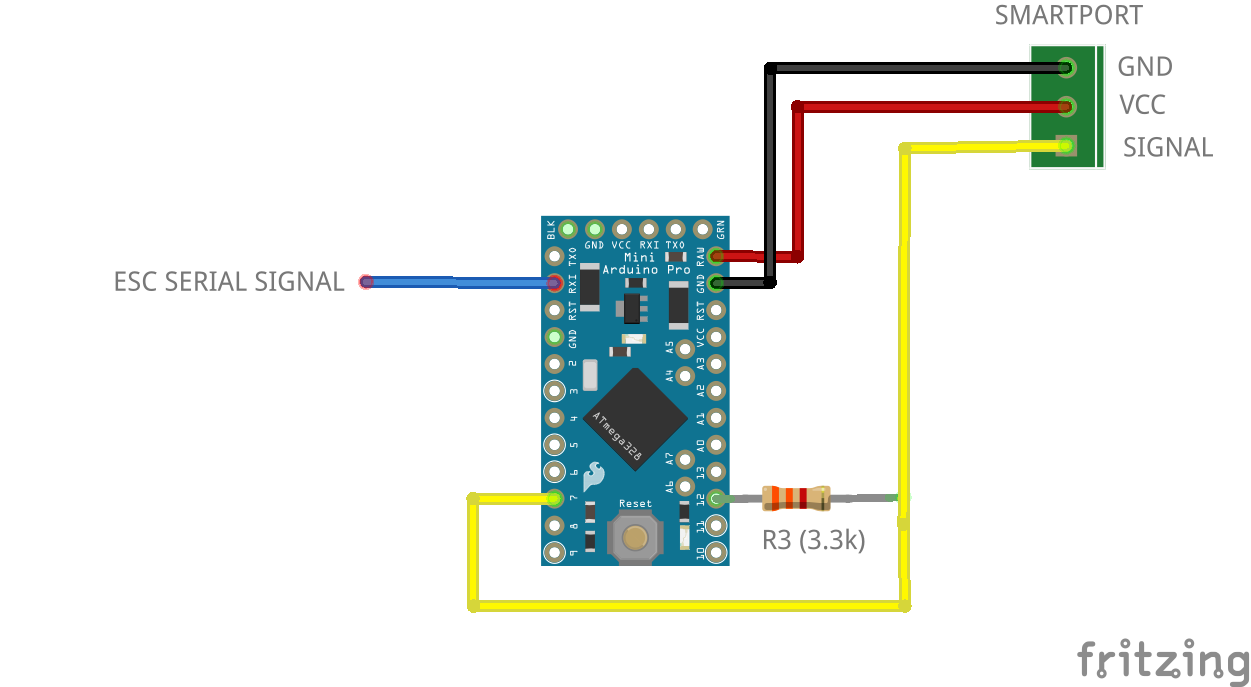
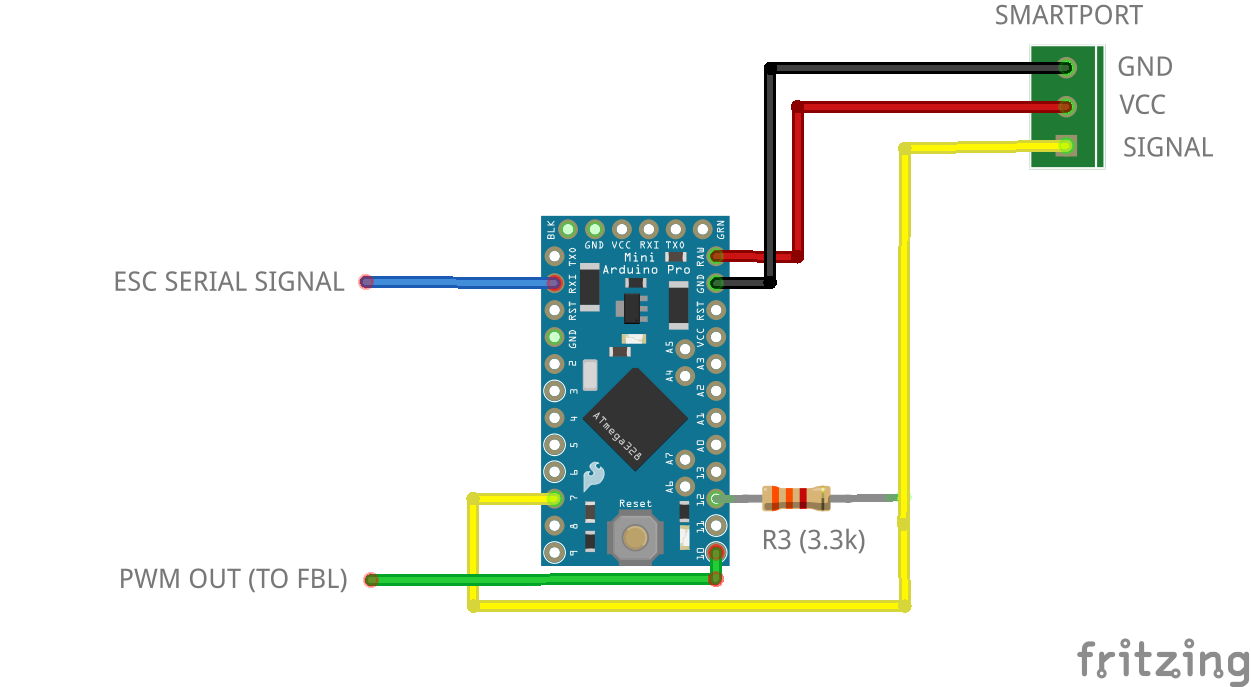
Update to 0.5

Changed region(s): [[0.0935, 0.7948, 0.5923, 0.8559]]

diff --git a/README.md b/README.md
@@ -1,25 +1,58 @@
 # MSRC - Multi Sensor for RC - FrSky Smartport
 
-This is a DIY project to send multiple sensor telemetry to Frsky Smartport using an Arduino Pro Mini 328P (3.3v or 5v)
+This is a DIY project to send multiple sensors telemetry to Frsky Smartport using an Arduino Pro Mini 328P (3.3v or 5v)
 
 ## Telemetry
 
+The following types of sensors can be connected:
+
+- ESC
+  - ESCs with serial telemetry (Hobbywing V3/V4/V5)
+  - ESC with PWM signal or phase sensor
+  - ESC Castle Link
+- I2C sensors
+- Analog sensors
+
 ### ESC
 
-The ESC telemetry can be ESC serial data, PWM signal or Castle Link
-
-ESC protocols implemented:
+Some ESC have a serial port for telemetry output. This can be decoded connecting the ESC to the UART available in the Pro Mini. The following ESC serial protocols are implemented:
 
 - Hobbywing Platinum V3: RPM
-- Hobbywing Platinum V4, Hobbywing Flyfun V5: RPM, temperature, voltage and current
-- PWM signal: RPM
-- Castle Link Live: RPM , voltage, ripple voltage, current, bec voltage, bec current, temperature, temperature NTC
+- Hobbywing Platinum V4, Hobbywing Flyfun V5: RPM, temperature (Mosfet and BEC), voltage and current
 
-Average cell voltage for HW V4/V5 is calculated for 3S,4S,5S,6S,7S,8S,10S and 12S batteries. 10 seconds after power on cell count is autodetected and fixed (average cell voltage to be >3.8v for proper cell count)
+Optionally a PWM signal (PIN 10, 3.3V, 50% duty) can be generated from the RPMs in serial telemetry
+
+<p align="center"><img src="./images/msrc_serial.png" width="600"><br>
+  <i>Minimum circuit ESC serial</i><br><br></p>
+
+Some ESC have a PWM signal for motor RPMs, which is equivalent to a phase sensor. Some ESC have both serial and PWM signal, like Hobbywing V4/V5, then PWN signal is not needed for telemetry. Circuit is as follows:
+
+<p align="center"><img src="./images/msrc_pwm.png" width="600"><br>
+  <i>Minimum circuit PWM signal</i><br><br></p>
+
+ESC Castle Link protocol goes into the input signal of the ESC. Circuit is as follows:
+
+<p align="center"><img src="./images/msrc_castle.png" width="600"><br>
+  <i>Minimum circuit Castle Link</i><br><br></p>
+
+Telemetry available by ESC model:
+
+| Model              | RPM         | Throttle    | Motor PWM   | Voltage     | Current   | Voltage BEC | Current BEC | Temperature 1 | Temperature 2 | Ripple Volt |
+| ------------------ | ----------- | ----------- | ----------- | ----------- | --------- | ----------- | ----------- | ------------- | ------------- | ----------- |
+| Hobbywing V3       | :x:         | :x:(1)      | :x:(1)      |             |           |             |             |               |               |             |
+| Hobbywing V4/V5(4) | :x:         | :x:(1)      | :x:(1)      | :x:         | :x:(2)    |             |             | :x: FET       | :x: BEC       |             |
+| Castle Link        | :x:         | :x:(1)      | :x:(1)      | :x:         | :x:       | :x:(3)      | :x:(3)      | :x:           |               | :x:         |
+
+(1) Available in telemetry but not forwarded to smartport
+(2) For 80A models and higher
+(3) Not available in all models
+(4) There are different types of sensors depending on the model. This is defined by the ESC signature. See annex
+
+If voltage is available the  cell voltage average is calculated for 3S,4S,5S,6S,7S,8S,10S and 12S batteries. 10 seconds after power on the number of cells is autodetected. Average cell voltage to be >3.8v for valid a cell count
 
 ### Analog sensors
 
-The following analog sensors are available:
+Can be connected the following analog sensors:
 
 - 2 x voltage divider can be added to read the battery voltage (A2, A3)
 - 2 x temperature sensors (thermistors) (A0, A1)
@@ -32,25 +65,6 @@ Multiple I2C sensors can be added (A4, A5)
 Currently supported:
 
 - Barometer: BMP180, BMP280
-
-## PWM output
-
-PWM signal generation from ESC serial (some HW V5 don't have RPM PWM output) 
-
-PWM signal properties: logic level 3.3V and default duty cycle 50%
-
-## Circuit
-
-Minimum circuit is the arduino connected to esc or rpm sensor and smartport. Although it is not mandatory to connect to the esc or rpm sensor 
-
-<p align="center"><img src="./images/msrc_serial.png" width="600"><br>
-  <i>Minimum circuit ESC serial</i><br><br></p>
-
-<p align="center"><img src="./images/msrc_pwm.png" width="600"><br>
-  <i>Minimum circuit PWM signal</i><br><br></p>
-
-<p align="center"><img src="./images/msrc_castle.png" width="600"><br>
-  <i>Minimum circuit Castle Link</i><br><br></p>
 
 <p align="center"><img src="./images/msrc_full.png" width="600"><br>
   <i>Additional sensors</i><br><br></p>
@@ -65,7 +79,7 @@ The configuration is modified with a lua script (X7, X9, X-lite and Horus with o
 
 <p align="center"><img src="./images/lua_x7.png" height="128">   <img src="./images/lua_x9.png" height="128">   <img src="./images/lua_x10.png" height="200"></p>
 
-Copy the file escSp.lua to the SCRIPTS folder in the sdcard of the Tx and execute as one-time script from SD-HD-CARD screen (long press and Execute). Since opentx 2.3 copy to SCRIPTS/TOOLS for easier access. It can be executed also as telemetry script if copied to TELEMETRY folder and assigned to a model telemetry screen
+Copy the file msrc.lua to the SCRIPTS/TOOLS folder. (if using older openTx 2.2 copy to SCRIPTS folder and execute by long press)
 
 If not using lua script comment *#define CONFIG_LUA* and assign config values in msrc.h
 
@@ -77,15 +91,16 @@ Options:
 - Ntc1. Thermistor 1
 - Ntc2. Thermistor 2
 - Current
-- PWM out. To generate PWM output from ESC serial  (for obbywing Flyfun V5)
+- PWM out. Generate a PWM signal from RPM is ESC serial (for Hobbywing Flyfun V5)
 - Averaging queue size: 1 to 16
 - Refresh rate (ms): 0 to 1600
+- I2C (x2). Type and I2C address
 
 ## OpenTx sensors
 
 The arduino default sensor id is 10. This can be changed with [change_id_frsky](https://github.com/dgatf/change_id_frsky)
 
-Depending on your configuration you may have some or all of the following sensors in Opentx:
+Depending on your configuration some the following sensors will be available in Opentx. After configuration go to sensors screen and update with *Search new sensors*
  
 ESC telemetry:
 
@@ -195,19 +210,26 @@ See [Castle Link Live](https://dzf8vqv24eqhg.cloudfront.net/userfiles/4671/6540/
 
 For best accuracy PWM signal output for FBL is produced by hardware PWM from serial RPM values. Maximum latency is 40ms
 
+### ADC voltage
+
+To obtain the voltage at the analog pin it is required the ADC bits (b) and the Vref:
+
+<img src="https://latex.codecogs.com/svg.latex?Vo = Vref * \frac{Raw}{2^b}" title="Vo = Vref * Raw / 2^bits" /><br>
+
 ### Analog voltage sensors. Voltage divider circuit
 
 Two battery voltages can be measured through the analog pins A2 and A3
 Metal resistors are recommended as gives more accurate readings (0.1W or higher)
 Arduino can read up to 3.3V/5V and is optimized for signal inputs with 10K impedance
 
+<p align="center"><img src="./images/Resistive_divider.png" width="200"></p>
+
 To select R values apply formulas:
 
-*Vo = Vi\*R2/(R1+R2) < 3.3V or 5V*
+<img src="https://latex.codecogs.com/svg.latex?Vo = Vin\frac{R_2}{R_1+R_2} < 3.3V or 5V" title="Vo = Vi\*R2/(R1+R2) < 3.3V or 5V" /><br>
 
-*Z = 1/((1/R1)+(1/R2)) < 10K*
+<img src="https://latex.codecogs.com/svg.latex?Z = \frac{1}{\frac{1}{R_1}+\frac{1}{R_2}} < 10K" title="Z = 1/((1/R1)+(1/R2)) < 10K" />
 
-<p align="center"><img src="./images/Resistive_divider.png" width="200"></p>
 
 For 6S battery (or lower) and Pro Mini 3.3v:
 
@@ -221,23 +243,30 @@ If more than 6S change R values or you may burn the Arduino!
 Two temperature sensors can be installed through the analog pins A0 and A1
 Temperature is measured with NTC thermistors (100k). Adjust thermistor Beta in ntc.h if needed (NTC_BETA, default is 4190). Sensor output in Celsius
 
-Using Beta formula:
+<p align="center"><img src="./images/ntc.gif" width="200"></p>
 
-*T = 1/[ln(R/Ro)/B+1/To]*
+To obtain the thermistor resistance:
 
-More accurate formula (Steinhart and Hart Equation) if data available:
+<img src="https://latex.codecogs.com/svg.latex?Rt = \frac{Vo * Rs}{(Vin - Vo)}" title="Rt = Vo * Rs / (Vin - voltage))}" />
 
-*T = 1/[A+Bln(R/Ro)+Cln(R/Ro)²+Dln(R/Ro)³]*
+And temperature with Beta formula:
+
+<img src="https://latex.codecogs.com/svg.latex?T = \frac{1}{\frac{ln\frac{Rt}{Rref}}{\beta}+\frac{1}{Tref}}" title="T = 1/[ln(Rt/Rref)/B+1/Tref]" />
+
+Or with Steinhart and Hart Equation if data is available:
+
+<img src="https://latex.codecogs.com/svg.latex?T = \frac{1}{A+B*ln\frac{Rt}{Rref}+C*ln(\frac{Rt}{Rref})^2+D*ln(\frac{Rt}{Rref})^3}" title="T = 1/[A+Bln(Rt/Rref)+Cln(Rt/Rref)²+Dln(Rt/Rref)³]" />
 
 ## Change log
 
 v0.5
 
-- Add Castle Link Live protocol
+- Added Castle Link Live protocol
+- Hobbywing V4/V5. Improved transformations for voltage and current (thanks to Comodore8888). Added ESC signatures
 
 [v0.4](https://github.com/dgatf/msrc/tree/v0.4)
 
-- Change R3 resistor to 3.3k
+- Changed R3 resistor to 3.3k
 - Support for [change_id_frsky](https://github.com/dgatf/change_id_frsky) to change the sensor id
 - Support for I2C sensors 
 - Improved code quality and performance
@@ -269,3 +298,11 @@ For questions, issues or new protocol request (use this [sketch](./sniffer/sniff
 [Openrcforums](https://www.openrcforums.com/forum/viewtopic.php?f=84&t=11911)
 
 Or open an [Issue](https://github.com/dgatf/msrc/issues) in Github
+
+
+## Acknowledgements
+
+- Commodore8888 (Helifreak)
+- MikeJ (Helifreak)
+- Atomic Skull (Helifreak)
+- McGiverek (Helifreak)
